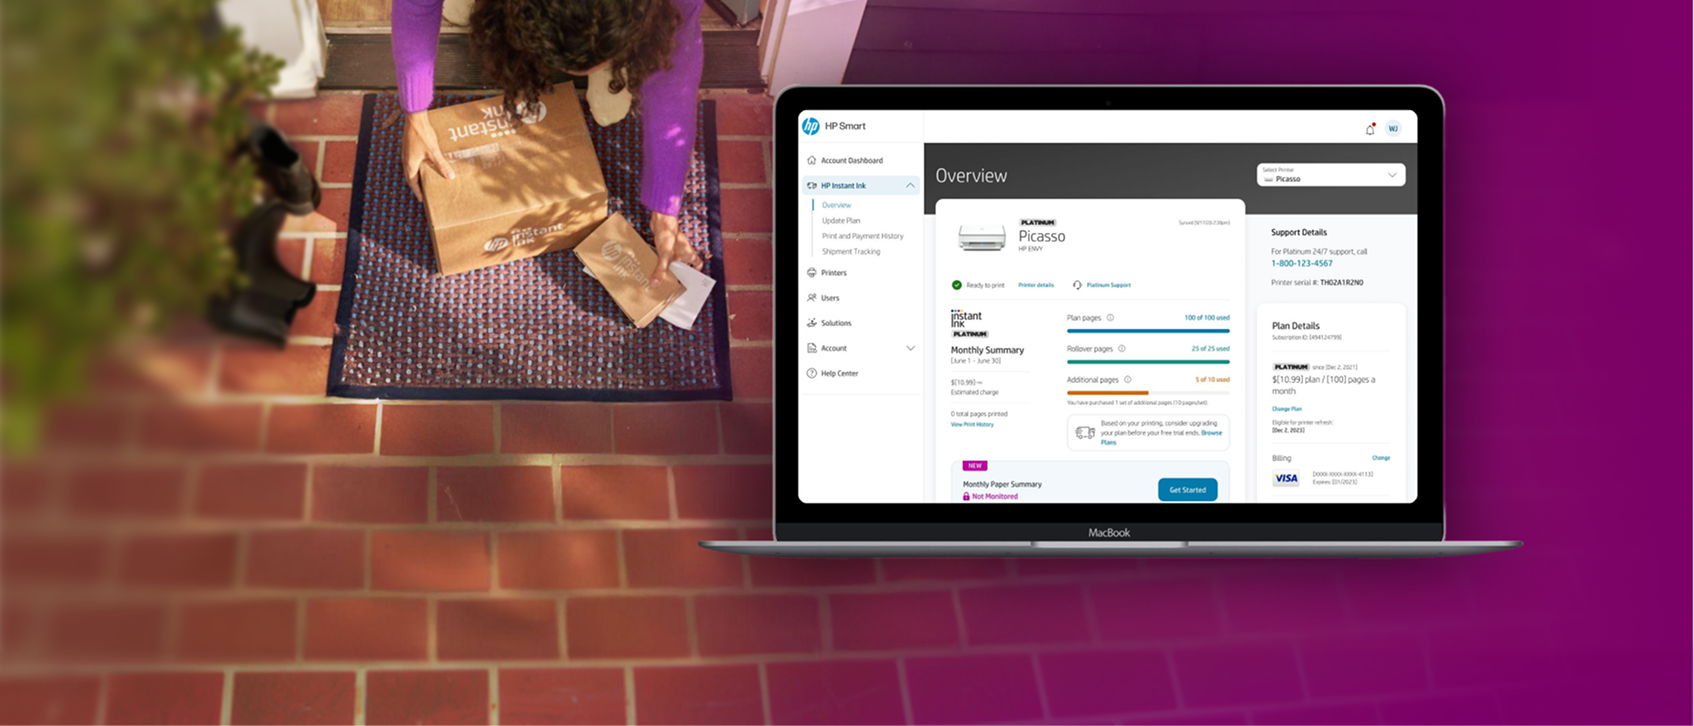
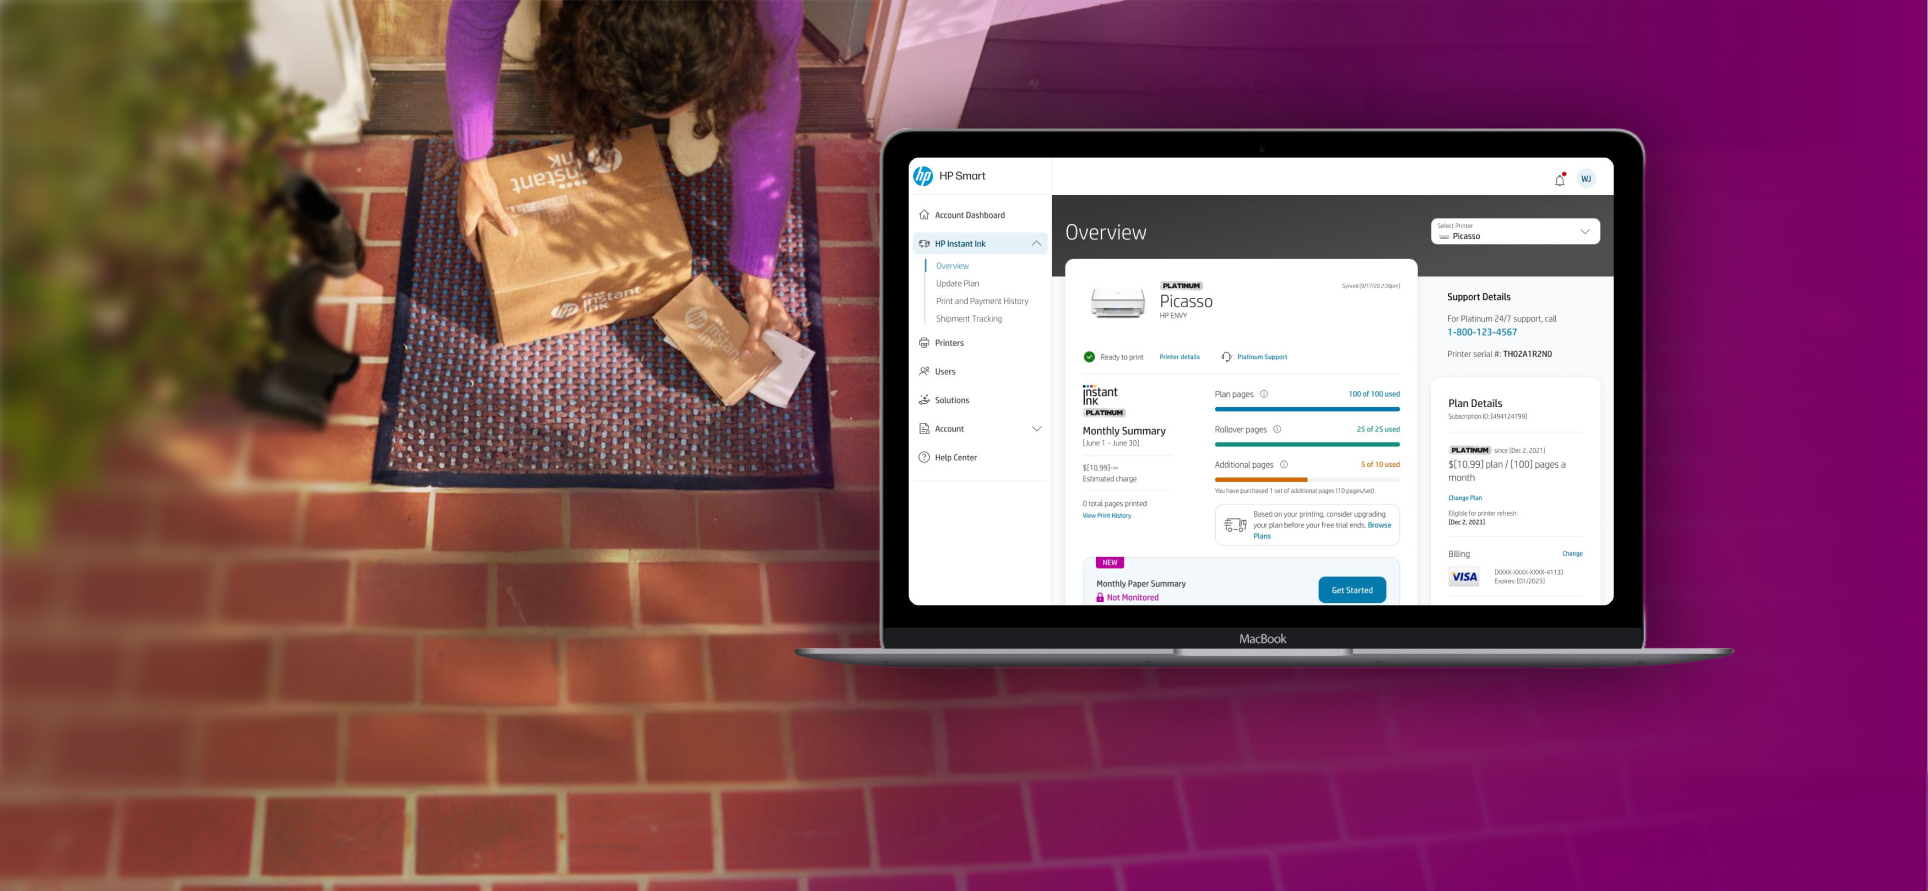
Atualiza imagens do case HP: telas individuais em vez de colagens
Troca hero por versão em resolução real (1928x891) e desktop-dashboard
pela composição correta já pronta do MacBook (desktop-mockup.png —
conferido no Figma Site que a "tela extra" que parecia faltar é só uma
camada sobreposta via CSS ali, não um asset a mais).

As duas colagens de baixa resolução que juntavam várias telas mobile
numa imagem só (overview-screens.png, onboarding-flow.png) viram 7
imagens individuais em resolução real, dentro de .phoneGrid (grid
responsivo, min 180px por item) — evita o problema de várias telas
espremidas ficarem ilegíveis no mobile, já que cada uma mantém sua
largura mínima e a grade quebra linha em vez de encolher tudo.

Também corrige um erro de posição: o board do FigJam (outcome-diagram,
antes flow-diagram.png) estava na seção 04 "How I approached it" —
conferido no Figma Site, ele pertence à seção 06 "Outcome", que até
então não tinha nenhuma imagem.

diff --git a/web/src/app/_shared/HpContent.tsx b/web/src/app/_shared/HpContent.tsx
@@ -178,21 +178,41 @@ const IMAGES = {
     src: "/images/cases/hp/hero.png",
     alt: { en: "HP Instant Ink box being delivered, next to a laptop showing the HP Smart account overview.", pt: "Caixa do HP Instant Ink sendo entregue, ao lado de um laptop mostrando a visão geral da conta no HP Smart." },
   },
-  overviewScreens: {
-    src: "/images/cases/hp/overview-screens.png",
-    alt: { en: "Four mobile screens: account overview, monthly paper summary, billing cycle, and cartridge status.", pt: "Quatro telas mobile: visão geral da conta, resumo mensal de papel, ciclo de faturamento e status do cartucho." },
+  overviewScreen: {
+    src: "/images/cases/hp/overview-screen.png",
+    alt: { en: "Mobile account overview screen showing plan pages used, printer status, and support details.", pt: "Tela mobile de visão geral da conta mostrando páginas do plano usadas, status da impressora e detalhes de suporte." },
   },
-  desktopDashboard: {
-    src: "/images/cases/hp/desktop-dashboard.png",
+  setupScreen: {
+    src: "/images/cases/hp/setup-screen.png",
+    alt: { en: "Mobile screen showing the monthly paper summary and plan and rollover page usage.", pt: "Tela mobile mostrando o resumo mensal de papel e o uso de páginas do plano e de rollover." },
+  },
+  billingScreen: {
+    src: "/images/cases/hp/billing-screen.png",
+    alt: { en: "Mobile screen showing the billing cycle period with a bar chart of pages printed over time.", pt: "Tela mobile mostrando o ciclo de faturamento com um gráfico de barras de páginas impressas ao longo do tempo." },
+  },
+  cartridgeScreen: {
+    src: "/images/cases/hp/cartridge-screen.png",
+    alt: { en: "Mobile screen showing cartridge status for each ink color, with replacement alerts.", pt: "Tela mobile mostrando o status de cada cartucho de tinta, com alertas de substituição." },
+  },
+  desktopMockup: {
+    src: "/images/cases/hp/desktop-mockup.png",
     alt: { en: "Desktop view of the HP Smart account overview, showing plan usage and support details.", pt: "Visão desktop da visão geral da conta no HP Smart, mostrando uso do plano e detalhes de suporte." },
   },
-  flowDiagram: {
-    src: "/images/cases/hp/flow-diagram.png",
-    alt: { en: "Flow diagram mapping user actions and HP's system actions across the account pages.", pt: "Diagrama de fluxo mapeando ações do usuário e ações do sistema da HP nas páginas de conta." },
+  allInclusivePlan: {
+    src: "/images/cases/hp/all-inclusive-plan.png",
+    alt: { en: "Mobile screen introducing the all-inclusive printer subscription plan.", pt: "Tela mobile apresentando o plano de assinatura all-inclusive da impressora." },
   },
-  onboardingFlow: {
-    src: "/images/cases/hp/onboarding-flow.png",
-    alt: { en: "Three onboarding screens: all-inclusive plan intro, choose your printer, and page volume selection.", pt: "Três telas de onboarding: introdução ao plano all-inclusive, escolha da impressora e seleção de volume de páginas." },
+  choosePrinter: {
+    src: "/images/cases/hp/choose-printer.png",
+    alt: { en: "Mobile screen for choosing a printer, comparing Essential, Versatile, and Professional tiers.", pt: "Tela mobile para escolher a impressora, comparando os níveis Essential, Versatile e Professional." },
+  },
+  pageVolume: {
+    src: "/images/cases/hp/page-volume.png",
+    alt: { en: "Mobile screen for selecting monthly page volume, with pricing per tier.", pt: "Tela mobile para selecionar o volume mensal de páginas, com preço por nível." },
+  },
+  outcomeDiagram: {
+    src: "/images/cases/hp/outcome-diagram.png",
+    alt: { en: "Overview board mapping the subscription flow: trial pages, plan pages, billing states, delivery status, payments, and user vs. HP actions.", pt: "Board de visão geral mapeando o fluxo da assinatura: páginas de teste, páginas do plano, estados de faturamento, status de entrega, pagamentos e ações do usuário vs. da HP." },
   },
 } as const;
 
@@ -247,8 +267,16 @@ export function HpContent({ locale }: { locale: Locale }) {
             <p key={p}>{p}</p>
           ))}
           <p className={styles.caption}>{t.minuteCaption}</p>
-          {/* eslint-disable-next-line @next/next/no-img-element */}
-          <img className={styles.sectionImage} src={IMAGES.overviewScreens.src} alt={IMAGES.overviewScreens.alt[locale]} />
+          <div className={styles.phoneGrid}>
+            {/* eslint-disable-next-line @next/next/no-img-element */}
+            <img className={styles.sectionImage} src={IMAGES.overviewScreen.src} alt={IMAGES.overviewScreen.alt[locale]} />
+            {/* eslint-disable-next-line @next/next/no-img-element */}
+            <img className={styles.sectionImage} src={IMAGES.setupScreen.src} alt={IMAGES.setupScreen.alt[locale]} />
+            {/* eslint-disable-next-line @next/next/no-img-element */}
+            <img className={styles.sectionImage} src={IMAGES.billingScreen.src} alt={IMAGES.billingScreen.alt[locale]} />
+            {/* eslint-disable-next-line @next/next/no-img-element */}
+            <img className={styles.sectionImage} src={IMAGES.cartridgeScreen.src} alt={IMAGES.cartridgeScreen.alt[locale]} />
+          </div>
         </section>
 
         <section className={styles.section}>
@@ -271,7 +299,7 @@ export function HpContent({ locale }: { locale: Locale }) {
           </ol>
           <p className={styles.caption}>{t.complexCaption}</p>
           {/* eslint-disable-next-line @next/next/no-img-element */}
-          <img className={styles.sectionImage} src={IMAGES.desktopDashboard.src} alt={IMAGES.desktopDashboard.alt[locale]} />
+          <img className={styles.sectionImage} src={IMAGES.desktopMockup.src} alt={IMAGES.desktopMockup.alt[locale]} />
         </section>
 
         <section className={styles.section}>
@@ -285,8 +313,6 @@ export function HpContent({ locale }: { locale: Locale }) {
               </Card>
             ))}
           </div>
-          {/* eslint-disable-next-line @next/next/no-img-element */}
-          <img className={styles.sectionImage} src={IMAGES.flowDiagram.src} alt={IMAGES.flowDiagram.alt[locale]} />
         </section>
 
         <section className={styles.section}>
@@ -301,13 +327,21 @@ export function HpContent({ locale }: { locale: Locale }) {
               ))}
             </Card>
           ))}
-          {/* eslint-disable-next-line @next/next/no-img-element */}
-          <img className={styles.sectionImage} src={IMAGES.onboardingFlow.src} alt={IMAGES.onboardingFlow.alt[locale]} />
+          <div className={styles.phoneGrid}>
+            {/* eslint-disable-next-line @next/next/no-img-element */}
+            <img className={styles.sectionImage} src={IMAGES.allInclusivePlan.src} alt={IMAGES.allInclusivePlan.alt[locale]} />
+            {/* eslint-disable-next-line @next/next/no-img-element */}
+            <img className={styles.sectionImage} src={IMAGES.choosePrinter.src} alt={IMAGES.choosePrinter.alt[locale]} />
+            {/* eslint-disable-next-line @next/next/no-img-element */}
+            <img className={styles.sectionImage} src={IMAGES.pageVolume.src} alt={IMAGES.pageVolume.alt[locale]} />
+          </div>
           <p className={styles.caption}>{t.decisionsCaption}</p>
         </section>
 
         <section className={styles.section}>
           <SectionHeader eyebrow={`06 · ${t.outcomeTitle}`} title={t.outcomeTitle} />
+          {/* eslint-disable-next-line @next/next/no-img-element */}
+          <img className={styles.sectionImage} src={IMAGES.outcomeDiagram.src} alt={IMAGES.outcomeDiagram.alt[locale]} />
           <ul className={styles.outcomeList}>
             {t.outcomeList.map((li) => (
               <li key={li}>{li}</li>
